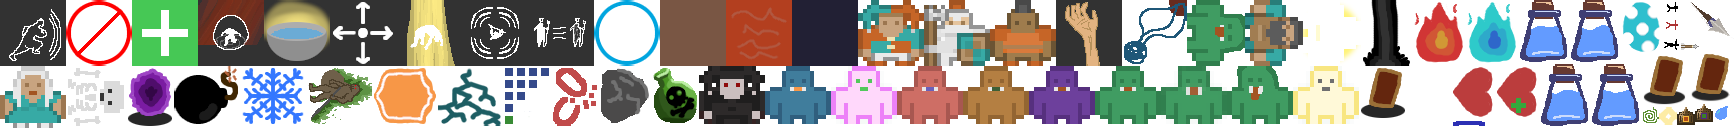
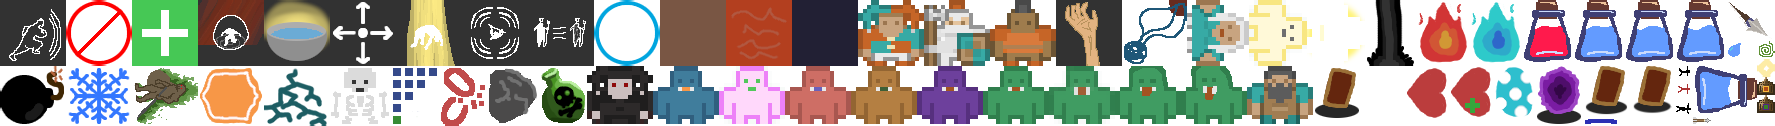
src: Add health potion

diff --git a/src/Pickup.ts b/src/Pickup.ts
@@ -129,6 +129,8 @@ export const specialPickups: { [image: string]: IPickupSource } = {
     },
   },
 };
+const manaPotionRestoreAmount = 40;
+const healthPotionRestoreAmount = 10;
 export const pickups: IPickupSource[] = [
   {
     imagePath: 'pickups/card',
@@ -158,10 +160,22 @@ export const pickups: IPickupSource[] = [
   {
     imagePath: 'pickups/mana-potion',
     name: 'Mana Potion',
-    description: 'Grants the player more mana',
+    description: `Restores ${manaPotionRestoreAmount} mana`,
     effect: ({ unit, player }) => {
       if (player) {
-        player.unit.mana += 40;
+        player.unit.mana += manaPotionRestoreAmount;
+        // Sync UI immediately when mana changes
+        syncPlayerHealthManaUI();
+      }
+    },
+  },
+  {
+    imagePath: 'pickups/health-potion',
+    name: 'Health Potion',
+    description: `Restores ${healthPotionRestoreAmount} health`,
+    effect: ({ unit, player }) => {
+      if (player) {
+        player.unit.health += healthPotionRestoreAmount;
         // Sync UI immediately when mana changes
         syncPlayerHealthManaUI();
       }
